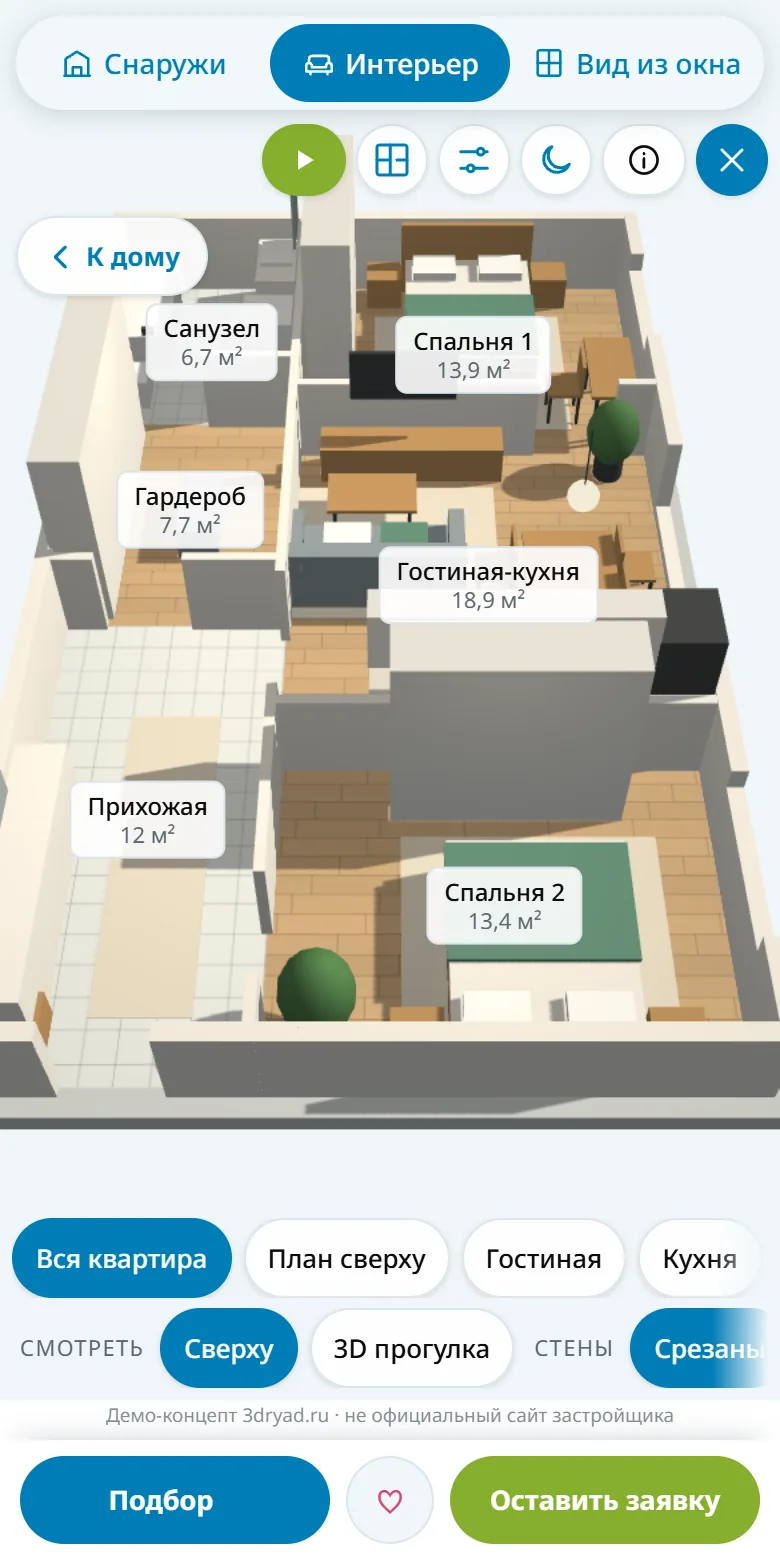
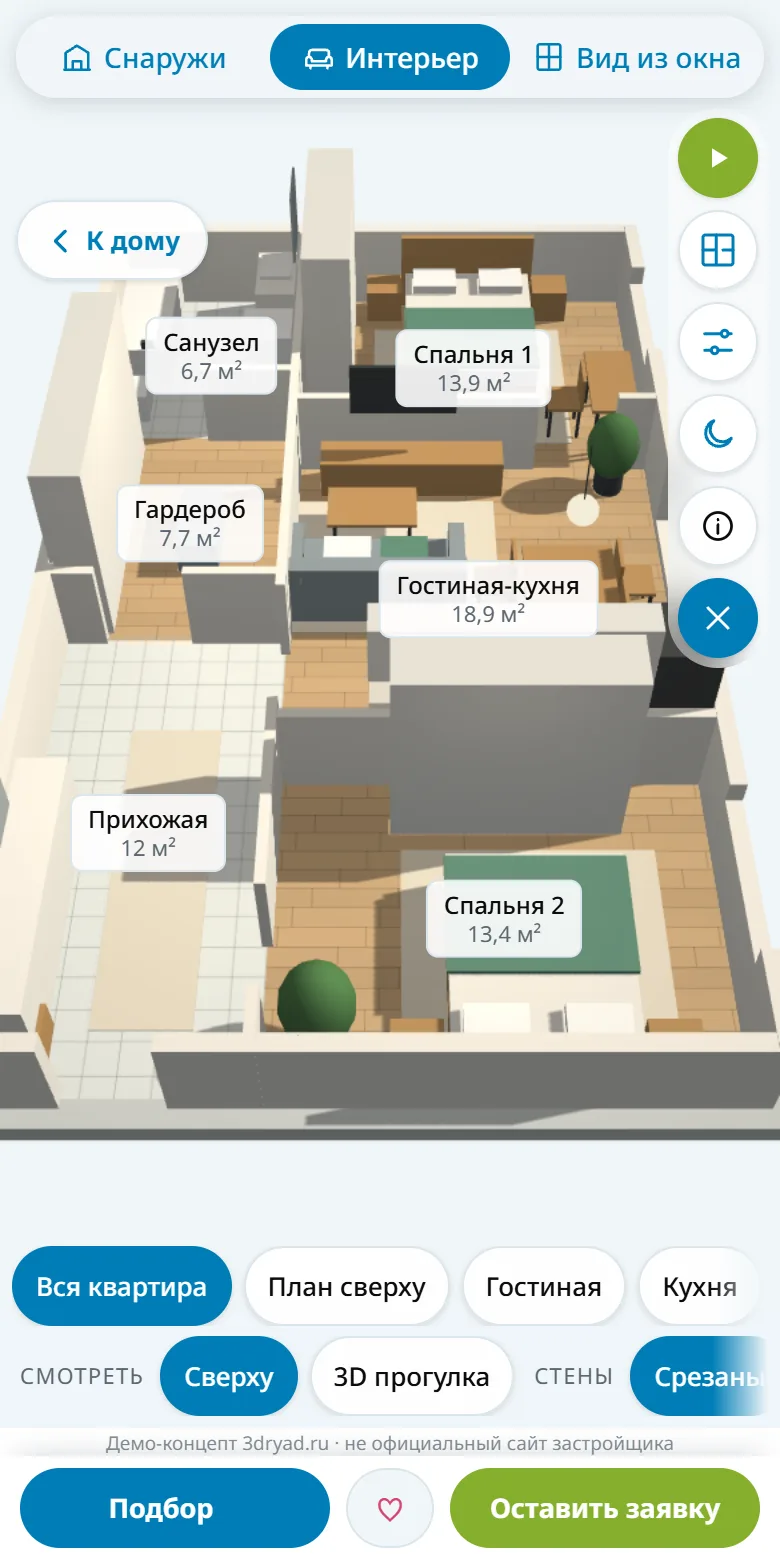
Боковое полупрозрачное меню на компьютере, колонка инструментов справа на телефоне

diff --git a/demo/index.html b/demo/index.html
@@ -329,10 +329,10 @@ body.pinned:not(.full) .stack{display:none}
 .gl.qnum{font:700 13px var(--f-display);min-width:24px;text-align:center;border-radius:999px;background:color-mix(in srgb,var(--surf) 88%,transparent)}
 .gl.poi{width:26px;height:26px;padding:0;border-radius:50%;display:flex;align-items:center;justify-content:center;background:#fff;border:2px solid currentColor;pointer-events:auto;cursor:help;box-shadow:0 1px 4px rgba(0,0,0,.25)}
 .gl.poi .ic{margin:0;width:14px;height:14px}
-.p-school{color:#2d6bd6}.p-kids{color:#e07a1f}.p-med{color:#d23c3c}.p-shop{color:#7a4fc4}.p-sport{color:#2f9a4c}
-.dock .poichip[aria-pressed="true"]{background:currentColor}
+.p-school{color:#2d6bd6;--pk:#2d6bd6}.p-kids{color:#e07a1f;--pk:#e07a1f}.p-med{color:#d23c3c;--pk:#d23c3c}.p-shop{color:#7a4fc4;--pk:#7a4fc4}.p-sport{color:#2f9a4c;--pk:#2f9a4c}
+.dock .poichip[aria-pressed="true"],body.siderail .rail .dock .poichip[aria-pressed="true"]{background:var(--pk);border-color:var(--pk);color:#fff}
 .dock .poichip[aria-pressed="true"] .ic{stroke:#fff}
-.dock .poichip[aria-pressed="true"] span,.dock .poichip[aria-pressed="true"]{color:inherit}
+.dock .poichip[aria-pressed="true"] span{color:#fff}
 .gl.sec{min-width:24px;text-align:center}
 /* floor plan in the card */
 .fplan svg{max-height:none}
@@ -525,13 +525,50 @@ body.full .fullnote{display:block;position:absolute;z-index:7;right:12px;bottom:
   body.full .tabs{width:min(520px,calc(100% - 760px))}
 }
 @media (max-width:640px){
-  body.full .pin{padding:0 0 calc(80px + env(safe-area-inset-bottom,0px))}
-  body.full .stage{--tt:56px}
+  body.full .pin{padding:0 0 calc(66px + env(safe-area-inset-bottom,0px))}
+  body.full .stage{--tt:48px}
   body.full .stack{top:calc(54px + var(--tt))}
   body.full .backbtn{top:calc(52px + var(--tt))}
   body.full .stage .tbar{top:calc(max(6px,env(safe-area-inset-top,0px)) + var(--tt))}
-  body.full .fullnote{bottom:calc(67px + env(safe-area-inset-bottom,0px));left:0;right:0;text-align:center;font-size:9.5px}
+  body.full .fullnote{bottom:calc(53px + env(safe-area-inset-bottom,0px));left:0;right:0;text-align:center;font-size:9.5px}
+  /* phone: the tools stand in a slim translucent column on the right, the top of the 3D stays free */
+  body.full .stage .tbar{flex-direction:column;right:6px;gap:6px;padding:5px;border-radius:26px;background:color-mix(in srgb,var(--surf) 45%,transparent);-webkit-backdrop-filter:blur(10px);backdrop-filter:blur(10px)}
+  body.full .stage .tbar .icobtn,body.full .stage .tbar .planbtn{width:40px;height:40px;min-height:40px;padding:0;justify-content:center}
+  body.full .vpanel{right:60px;width:min(320px,calc(100% - 72px))}
+  body.full .tabs button{padding:7px 4px;font-size:14px}
+  body.full .tabs .ic{width:17px;height:17px}
+  body.full .mbar{padding-top:6px;padding-bottom:max(6px,env(safe-area-inset-bottom,0px))}
+  body.full .mbar .chip{min-height:40px}
+  body.full .mini{right:auto;left:8px}   /* the tool column is on the right */
+  body.full .tabs{background:color-mix(in srgb,var(--chip) 72%,transparent)}
 }
+/* computer, full screen: translucent side menu (tabs, steps / rooms / windows, view rows) */
+.rail,.railopen{display:none}
+body.siderail .rail{display:flex;flex-direction:column;gap:12px;position:absolute;z-index:8;left:12px;top:12px;bottom:12px;width:236px;padding:10px 10px 12px;border-radius:20px;background:color-mix(in srgb,var(--surf) 66%,transparent);-webkit-backdrop-filter:blur(14px) saturate(1.2);backdrop-filter:blur(14px) saturate(1.2);border:1px solid color-mix(in srgb,#fff 55%,transparent);box-shadow:0 8px 28px rgba(10,30,45,.16);overflow-y:auto;scrollbar-width:thin;touch-action:auto}
+body.siderail.railmin .rail,body.touring .rail,body.touring .railopen{display:none}
+body.siderail.railmin .railopen{display:inline-flex;position:absolute;z-index:8;left:12px;top:12px;width:44px;height:44px;background:color-mix(in srgb,var(--surf) 72%,transparent);-webkit-backdrop-filter:blur(10px);backdrop-filter:blur(10px);box-shadow:0 4px 14px rgba(10,30,45,.16)}
+.rail-h{display:flex;align-items:center;justify-content:space-between;padding-left:6px;font:600 11px var(--f-body);letter-spacing:.1em;text-transform:uppercase;color:var(--mut)}
+.rail-h .icobtn{width:32px;height:32px;min-height:32px;background:transparent;box-shadow:none;border:0}
+body.siderail .rail .tabs{position:static;transform:none;width:auto;display:flex;flex-direction:column;gap:2px;padding:0 0 10px;border-radius:0;background:none;box-shadow:none;-webkit-backdrop-filter:none;backdrop-filter:none;border-bottom:1px solid color-mix(in srgb,var(--mut) 22%,transparent)}
+body.siderail .rail .tabs button{justify-content:flex-start;padding:10px 12px;border-radius:12px;font-size:14.5px}
+body.siderail .rail .tabs button:not([aria-pressed="true"]):hover{background:color-mix(in srgb,var(--acc) 10%,transparent)}
+body.siderail .rail .dock{position:static;padding:0;background:none;gap:10px;pointer-events:auto}
+body.siderail .rail .dock .chips,body.siderail .rail .dockrow{flex-wrap:wrap;overflow:visible;-webkit-mask-image:none;mask-image:none}
+body.siderail .rail .dock .chip{min-height:36px;padding:6px 11px;font-size:13px;box-shadow:none;border:1px solid color-mix(in srgb,var(--mut) 18%,transparent)}
+body.siderail .rail .dock .chip[aria-pressed="true"]{border-color:var(--acc)}
+body.siderail .rail #rSteps{flex-direction:column;align-items:stretch;gap:2px}
+body.siderail .rail #rSteps .chip{justify-content:flex-start;width:100%;min-height:40px;border:0;background:transparent;border-radius:12px;padding:8px 12px;font-size:14px}
+body.siderail .rail #rSteps .chip:not([aria-pressed="true"]):not([disabled]):hover{background:color-mix(in srgb,var(--acc) 10%,transparent)}
+body.siderail .rail #rSteps .chip[aria-pressed="true"]{background:var(--acc)}
+body.siderail .rail .dlab{flex-basis:100%;margin:2px 0 -2px 2px}
+body.siderail .stage{--tt:0px;--rw:260px}
+body.siderail.railmin .stage{--rw:56px}
+body.siderail .where,body.siderail .backbtn,body.siderail .stack{left:calc(var(--rw) + 8px)}
+body.siderail .badge,body.siderail .hint{left:calc(var(--rw) + 10px)}
+body.touring.siderail .where,body.touring.siderail .backbtn{left:8px}
+body.siderail .rail #rSteps,body.siderail .rail #rView,body.siderail .rail #rWin{order:-5}
+body.siderail .rail{bottom:32px}
+body.siderail .fullnote{left:12px;right:auto;bottom:8px;width:236px;text-align:center;padding:3px 6px;border-radius:8px;background:color-mix(in srgb,var(--surf) 70%,transparent);opacity:.9}
 /* rows of chips wider than the screen fade out at the side they continue to */
 .chips.more-r{-webkit-mask-image:linear-gradient(to right,#000 calc(100% - 28px),transparent);mask-image:linear-gradient(to right,#000 calc(100% - 28px),transparent)}
 .chips.more-l{-webkit-mask-image:linear-gradient(to left,#000 calc(100% - 28px),transparent);mask-image:linear-gradient(to left,#000 calc(100% - 28px),transparent)}
@@ -553,6 +590,7 @@ body.full .fullnote{display:block;position:absolute;z-index:7;right:12px;bottom:
     <symbol id="i-info" viewBox="0 0 24 24"><circle cx="12" cy="12" r="9"/><path d="M12 11v6M12 7.5v.5"/></symbol>
     <symbol id="i-close" viewBox="0 0 24 24"><path d="M6 6l12 12M18 6L6 18"/></symbol>
     <symbol id="i-expand" viewBox="0 0 24 24"><path d="M4 9V4h5M20 9V4h-5M4 15v5h5M20 15v5h-5"/></symbol>
+    <symbol id="i-menu" viewBox="0 0 24 24"><path d="M4 7h16M4 12h16M4 17h16"/></symbol>
     <symbol id="i-back" viewBox="0 0 24 24"><path d="M15 5l-7 7 7 7"/></symbol>
     <symbol id="i-up" viewBox="0 0 24 24"><path d="M6 15l6-6 6 6"/></symbol>
     <symbol id="i-down" viewBox="0 0 24 24"><path d="M6 9l6 6 6-6"/></symbol>
@@ -599,6 +637,9 @@ body.full .fullnote{display:block;position:absolute;z-index:7;right:12px;bottom:
 
   <div class="stage" id="stage">
     <canvas id="cv" aria-label="3D-модель квартиры"></canvas>
+    <!-- computer, full screen: a translucent side menu with the mode tabs and the dock rows (moved in by placeRail) -->
+    <nav class="rail" id="rail" aria-label="Меню"><div class="rail-h"><span>Меню</span><button type="button" class="icobtn" id="railMin" aria-label="Свернуть меню" title="Свернуть меню"><svg class="ic"><use href="#i-back"/></svg></button></div></nav>
+    <button type="button" class="icobtn railopen" id="railOpen" aria-label="Открыть меню" title="Меню"><svg class="ic"><use href="#i-menu"/></svg></button>
     <div class="veil" id="veil" aria-hidden="true"></div>
     <!-- view settings right on the 3D: grouped by what they change, only those of the current mode -->
     <div class="vpanel" id="vpanel" hidden role="dialog" aria-label="Настройки вида">
@@ -2069,7 +2110,7 @@ body.full .fullnote{display:block;position:absolute;z-index:7;right:12px;bottom:
     // what is out there in the distance: districts, parts of the city, rivers — named with the distance from the complex
     // out of the frame, the label sits at the edge of the stage with an arrow towards it, like a navigator (one per direction)
     if (/^(house|yard|top|back|all|floor)$/.test(S.extView)) {
-      const dh = dockEl.offsetHeight, nl = narrow(), x0 = nl ? 120 : 140, x1 = w - (nl ? 120 : 150), y0 = 58, y1 = h - dh - 16, cx = (x0 + x1) / 2, cy = (y0 + y1) / 2, dirs = [];
+      const dh = dockH(), nl = narrow(), x0 = (nl ? 120 : 140) + railW(), x1 = w - (nl ? 120 : 150), y0 = 58, y1 = h - dh - 16, cx = (x0 + x1) / 2, cy = (y0 + y1) / 2, dirs = [];
       const ARW = ['→', '↘', '↓', '↙', '←', '↖', '↑', '↗'];
       let nIn = 0;
       FAR.forEach((g) => {
@@ -2124,7 +2165,7 @@ body.full .fullnote{display:block;position:absolute;z-index:7;right:12px;bottom:
       if (ch) { d._w = d.offsetWidth; d._h = d.offsetHeight; }   // size is measured only when the label changes
       const bw = d._w, bh = d._h;
       let x = it.sx - bw / 2, y = it.sy - bh / 2;
-      if (g.k === 'far') { x = clamp(x, narrow() ? 118 : 136, w - bw - (narrow() ? 118 : 146)); y = clamp(y, 52, h - bh - dockEl.offsetHeight - 6); }   // clear of the floor column and the camera pad   // edge labels stay whole inside the stage
+      if (g.k === 'far') { x = clamp(x, (narrow() ? 118 : 136) + railW(), w - bw - (narrow() ? 118 : 146)); y = clamp(y, 52, h - bh - dockH() - 6); }   // clear of the floor column and the camera pad   // edge labels stay whole inside the stage
       else if (x < 2 || x + bw > w - 2) { d.style.display = 'none'; return; }   // a name cut by the stage edge is dropped
       if (placed.some((p) => x < p[0] + p[2] + 2 && x + bw + 2 > p[0] && y < p[1] + p[3] + 1 && y + bh + 1 > p[1])) { d.style.display = 'none'; return; }
       placed.push([x, y, bw, bh]);
@@ -2493,10 +2534,24 @@ body.full .fullnote{display:block;position:absolute;z-index:7;right:12px;bottom:
     stageEl.style.setProperty('--dockh', (out ? 0 : dockEl.offsetHeight) + 'px'); resize(); updateFov(); wake();
   }
   phoneMQ.addEventListener('change', placeDock); placeDock();
+  // computer in full screen: tabs and dock rows go into the side menu; it folds to one ☰ button (remembered per browser)
+  const railEl = $('rail'), tabsEl = document.querySelector('.tabs'), railMQ = matchMedia('(min-width:1024px)');
+  let railMin = false; try { railMin = localStorage.getItem('nv-railmin') === '1'; } catch (e) {}
+  function dockH() { return dockEl.classList.contains('out') || document.body.classList.contains('siderail') ? 0 : dockEl.offsetHeight; }
+  function railW() { const b = document.body.classList; return b.contains('siderail') && !b.contains('railmin') && !b.contains('touring') ? railEl.offsetWidth + 12 : 0; }
+  function placeRail() {
+    const on = document.body.classList.contains('full') && railMQ.matches;
+    document.body.classList.toggle('siderail', on); document.body.classList.toggle('railmin', on && railMin);
+    if (on && tabsEl.parentNode !== railEl) railEl.append(tabsEl, dockEl);
+    else if (!on && tabsEl.parentNode === railEl) { $('pin').prepend(tabsEl); stageEl.appendChild(dockEl); }
+  }
+  function setRailMin(v) { railMin = v; try { localStorage.setItem('nv-railmin', v ? '1' : '0'); } catch (e) {} placeRail(); resize(); }
+  $('railMin').addEventListener('click', () => setRailMin(true)); $('railOpen').addEventListener('click', () => setRailMin(false));
+  railMQ.addEventListener('change', () => { placeRail(); resize(); });
   // full screen: tabs + stage over the whole page (on a phone the 3D gets the entire screen)
   const fullBtn = $('fullBtn');
   function setFull(on) {
-    document.body.classList.toggle('full', on); placeDock(); fullBtn.setAttribute('aria-pressed', on ? 'true' : 'false');
+    document.body.classList.toggle('full', on); placeDock(); placeRail(); fullBtn.setAttribute('aria-pressed', on ? 'true' : 'false');
     fullBtn.innerHTML = '<svg class="ic"><use href="#i-' + (on ? 'close' : 'expand') + '"/></svg>'; fullBtn.setAttribute('aria-label', on ? 'Выйти из полноэкранного режима' : 'Во весь экран');
     resize(); refresh(true);
     // the stage changed its size: frame the current view again
@@ -2841,7 +2896,7 @@ body.full .fullnote{display:block;position:absolute;z-index:7;right:12px;bottom:
     $('viewBtn').hidden = S.mode === 'win' && !document.body.classList.contains('full'); setVP(false);
     dockEl.querySelectorAll('[data-m]').forEach((r) => { r.hidden = r.dataset.m.split(' ').indexOf(S.mode) < 0; });
     stageEl.dataset.mode = S.mode;
-    stageEl.style.setProperty('--dockh', (dockEl.classList.contains('out') ? 0 : dockEl.offsetHeight) + 'px'); updateFov();
+    stageEl.style.setProperty('--dockh', dockH() + 'px'); updateFov();
     $('rowStyle').hidden = S.mode !== 'int' || S.finish !== 'design';
     $('rowSee').hidden = !(S.mode === 'int' && S.cam === 'walk');
     wallChips.forEach((w) => { w[0].hidden = w[1] !== (S.cam === 'walk' ? 'walk' : 'top'); });
@@ -3037,16 +3092,17 @@ body.full .fullnote{display:block;position:absolute;z-index:7;right:12px;bottom:
   }
   function updateFov() {
     const w = stageEl.clientWidth, h = stageEl.clientHeight; if (!w || !h) return;
-    const tourEl = $('tour'), asp = w / h, d = tourEl && !tourEl.hidden ? tourEl.offsetHeight + 16 : (dockEl.classList.contains('out') ? 0 : dockEl.offsetHeight);   // the tour panel covers the bottom like the dock
+    const tourEl = $('tour'), asp = w / h, d = tourEl && !tourEl.hidden ? tourEl.offsetHeight + 16 : dockH(), r = tourEl && !tourEl.hidden ? 0 : railW();   // the tour panel covers the bottom like the dock
     camera.fov = S.mode === 'ext' ? (asp < 0.9 ? 50 : 38) : S.mode === 'win' ? (asp < 0.9 ? 78 : 62) : (S.cam === 'walk' ? (asp < 0.9 ? 72 : 62) : (asp < 0.9 ? 60 : 42));
     // the dock covers the bottom d px: render the top part of a taller virtual frame, so what the camera aims at sits mid-way in the free area
-    camera.aspect = w / (h + d);
-    if (d) camera.setViewOffset(w, h + d, 0, d, w, h); else camera.clearViewOffset();
+    // the side menu covers the left r px the same way: a wider virtual frame moves the aim point into the free part on the right
+    camera.aspect = (w + r) / (h + d);
+    if (d || r) camera.setViewOffset(w + r, h + d, 0, d, w, h); else camera.clearViewOffset();
     camera.updateProjectionMatrix();
   }
   function resize() {
     const w = stageEl.clientWidth, h = stageEl.clientHeight; if (!w || !h) return;
-    stageEl.style.setProperty('--dockh', (dockEl.classList.contains('out') ? 0 : dockEl.offsetHeight) + 'px');
+    stageEl.style.setProperty('--dockh', dockH() + 'px');
     // phones keep up to 2x (small screens), computers 1.5x: a full-screen canvas at 2x is 4x the pixels for little visible gain
     renderer.setPixelRatio(Math.min(window.devicePixelRatio || 1, coarse ? 2 : 1.5)); renderer.setSize(w, h, false); updateFov(); wake();
   }

diff --git a/CLAUDE.md b/CLAUDE.md
@@ -72,3 +72,8 @@
 - «Атмосфера» (второй ЖК УДСД, мкр Созидателей): зелёная метка `ATM` (`.gl.atm`) на карте «Город»/«Район», по нажатию окно `#dev` «скоро в 3D» (`atmDlg`).
 - Вечер: линии света под кровлей каждой секции (`ledMesh`, один InstancedMesh из `ledSpots`), светящаяся галерея первых этажей (`mStrip.emissive`), окна и фонари — как раньше.
 - КП: раздел `#around` «Вокруг дома» (инфраструктура, паркинг, поэтажные планы, вечер, все ЖК) и таблица `.cmp` «Онлайн-3D или сенсорный макет» — без чисел конкурентов.
+
+## Весь экран и боковое меню (29.10.2026)
+- Демо всегда открывается на весь экран (`setFull(true)` при запуске, в том числе в iframe КП и с `?tour=1`; страница с панелями — `?classic=1`). 3D без рамок и отступов, вкладки режимов поверх сцены; `--tt` на `.stage` опускает верхние кнопки под вкладки.
+- Компьютер (≥1024px): полупрозрачное меню слева `#rail` (класс `body.siderail`; **не** `body.rail` — совпадает с `.rail{display:none}` и прячет страницу). `placeRail()` переносит туда `.tabs` и `#dock`: режимы, шаги Город…Паркинг (вертикальный список), комнаты/окна/этажи, ряды ⚙. Сворачивается в кнопку ☰ (`#railMin`/`#railOpen`, localStorage `nv-railmin`). `railW()` сдвигает центр кадра вправо (`setViewOffset` в `updateFov`), `dockH()` = 0, пока док в меню. Подпись «Демо-концепт» — под меню.
+- Телефон: инструменты — узкая полупрозрачная колонка справа (`.tbar` столбиком), вкладки и нижняя панель компактнее, мини-карта прогулки слева.
